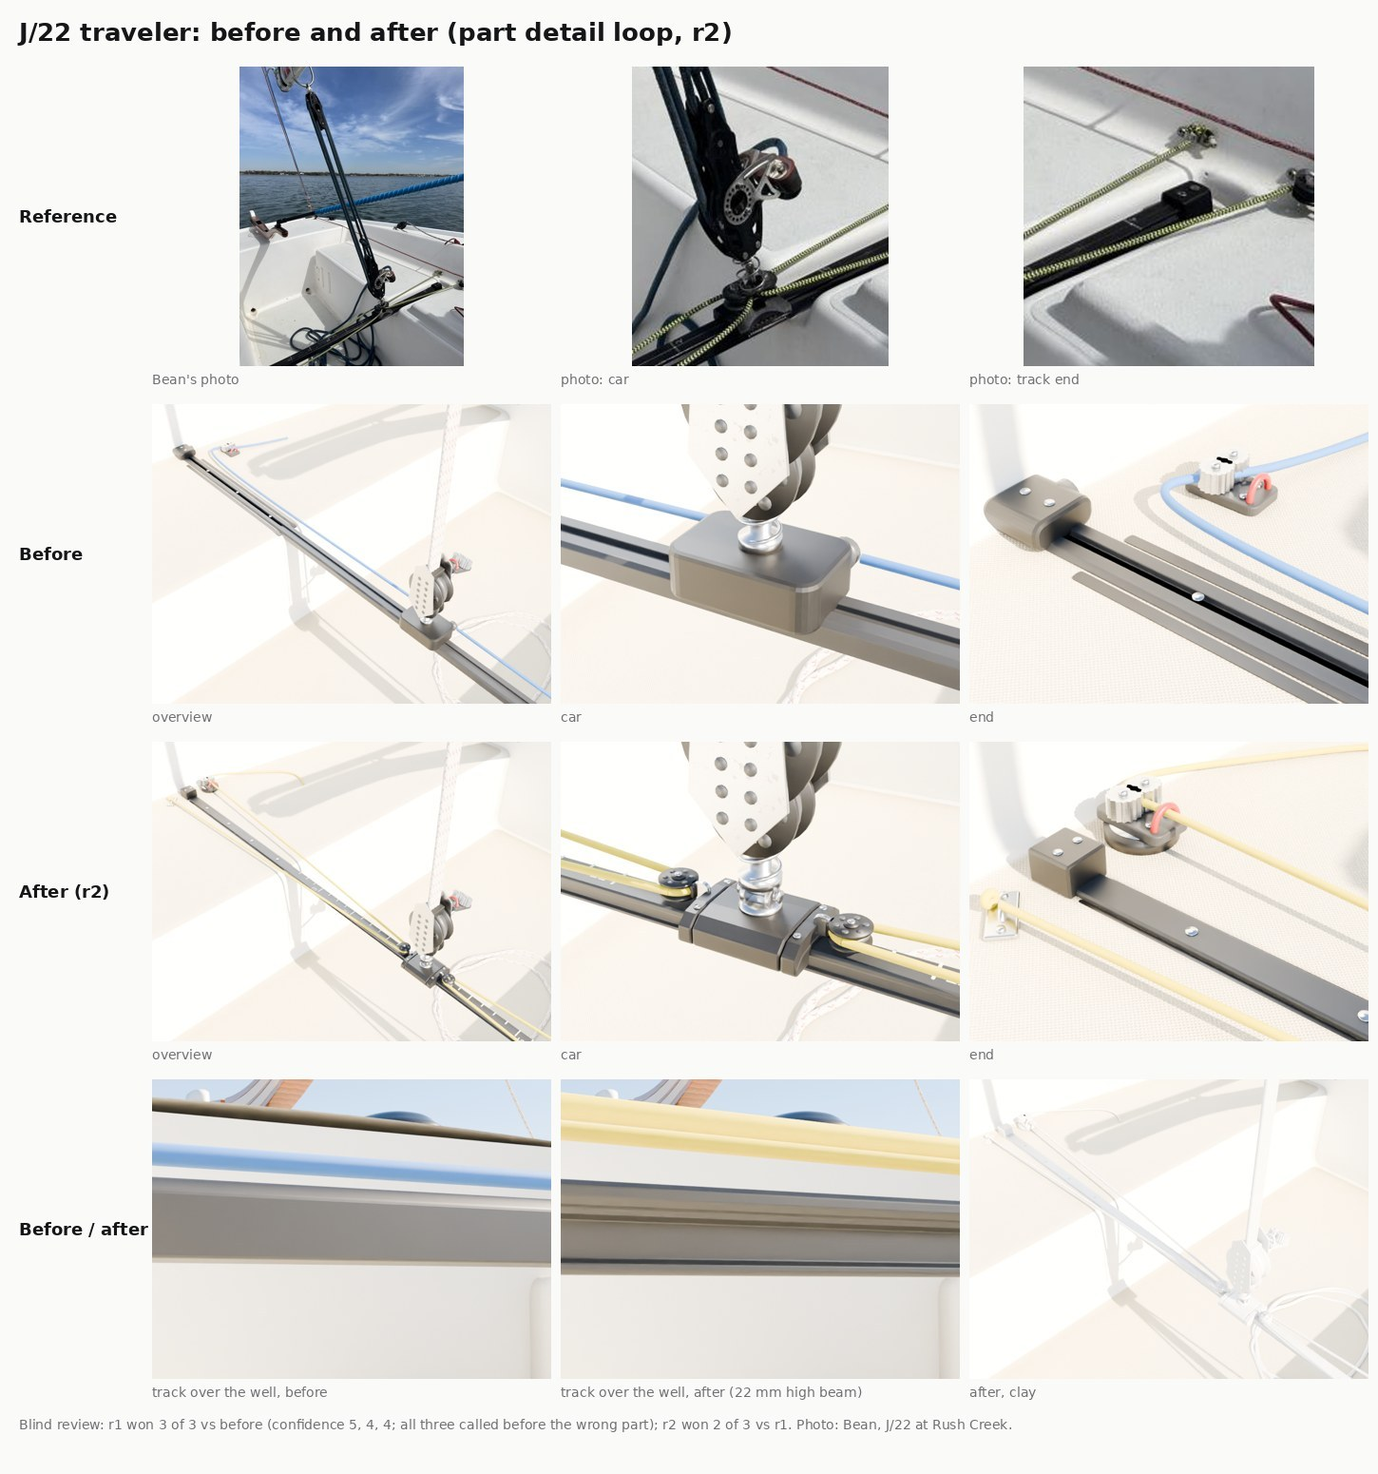
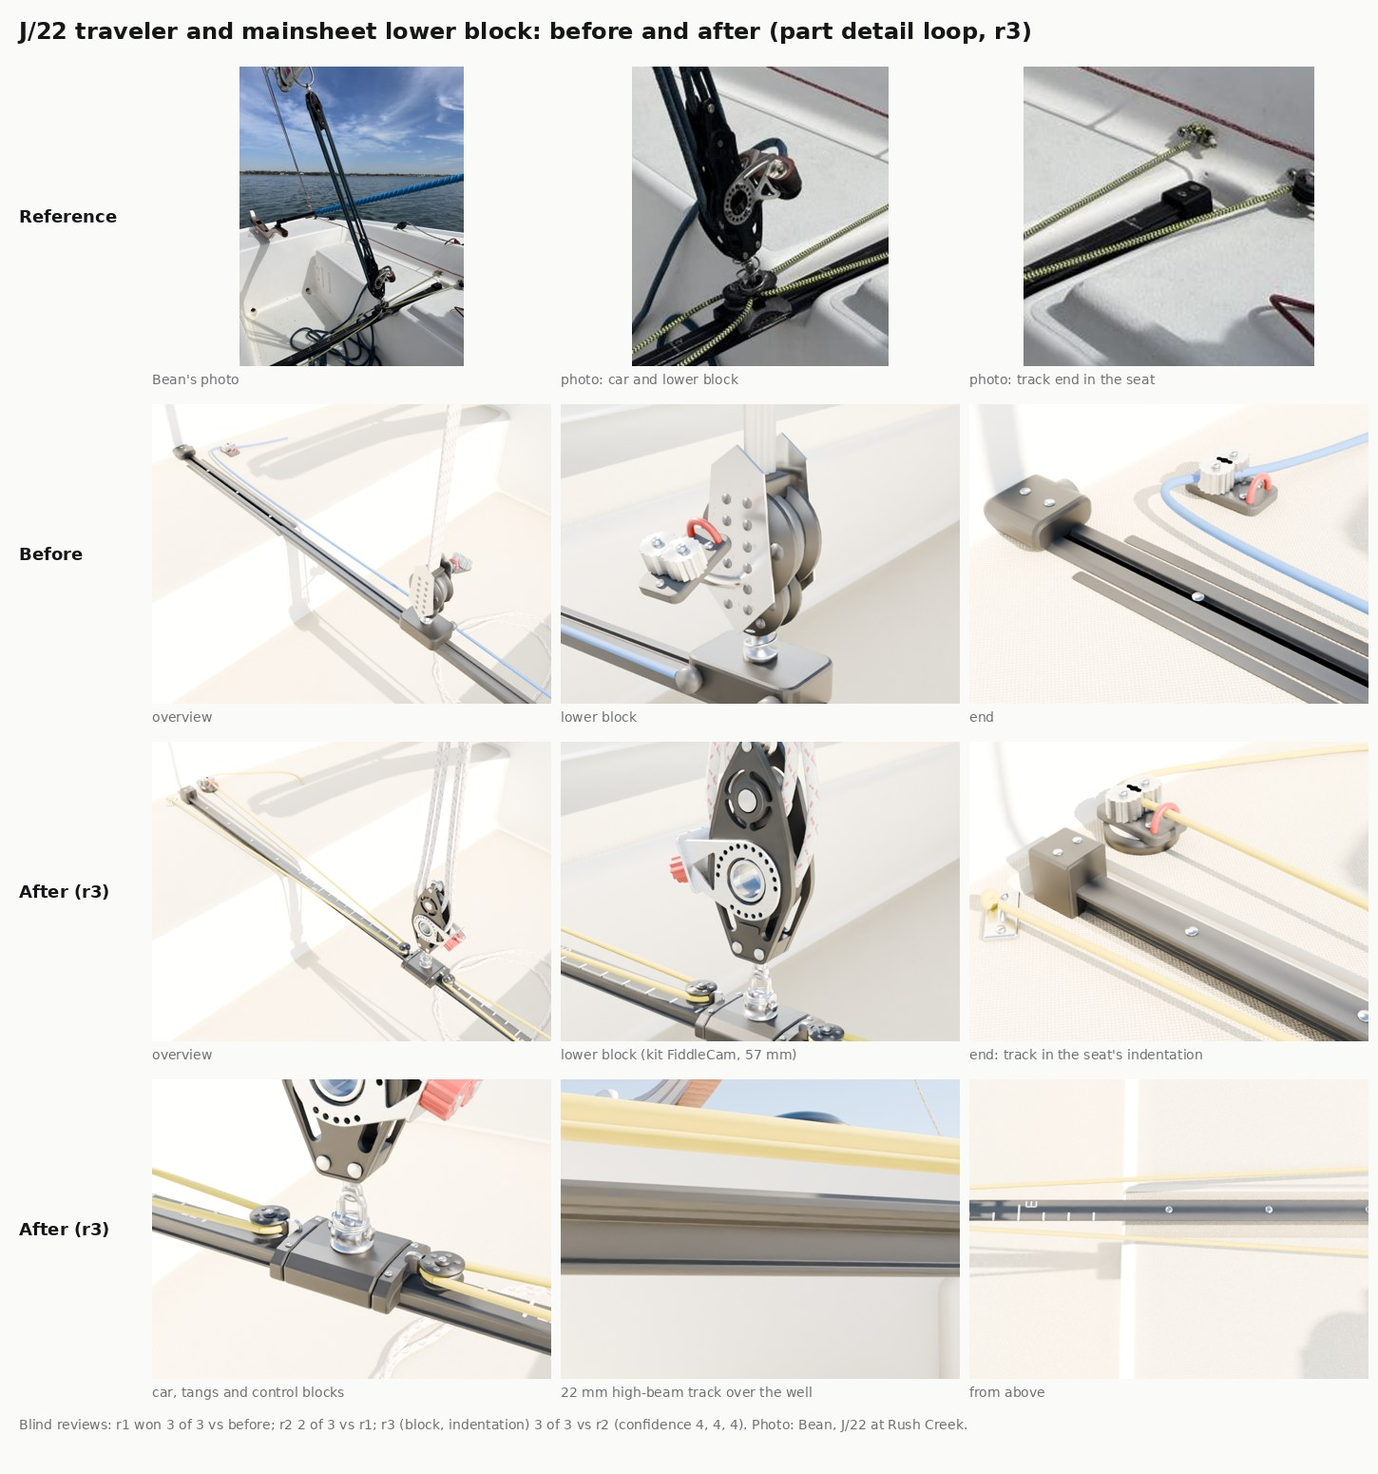
Traveler r3: kit FiddleCam as the lower block, the seats' indentation
Bean's review of #554: the lower block on the car is now the boat kit's
FiddleCam at 57 mm (built from the same photo: black cheeks, red-jawed cam on
its aluminium bracket, becket) on a spring and swivel, its big sheave where
the old block's was; a moulded trough is cut across each seat top for the
track to lie in. The mainsheet's four parts in the stills come down onto the
sheave from either side. MainsheetCam moves to the kit block's jaws (no game
code reads it); every other socket is unchanged.

Blind review: r3 won 3 of 3 against r2 (confidence 4, 4, 4).

Claude-Session: https://claude.ai/code/session_01Aobnj77YeFcs9m9tCADMXJ

diff --git a/Inputs/j22-hero/j22_mainsheet.py b/Inputs/j22-hero/j22_mainsheet.py
@@ -14,7 +14,7 @@ photo; traveler-deck-mount, mainsail-sheet-traveler). Replaces build_j22_hero's 
 build_j22_hero.py; the traveler's sizes from the catalogue (traveler.md), the fiddle's GUESS from the photos (57 mm)."""
 import math
 
-from mathutils import Vector
+from mathutils import Matrix, Vector
 
 import j22_details as D
 from j22_boomgear import countersunk, plate_xy, rounded
@@ -29,6 +29,8 @@ TRACK_W = 0.022          # catalogue: 22 mm track
 TRACK_H = 0.019          # GUESS: high-beam section, its area (about 220 mm2) checked against the catalogue weight (586 g/m)
 CAR_L, CAR_W = 0.073, 0.057   # catalogue (the 22 mm car with pivoting shackle and control tangs): 2 7/8 x 2 1/4 in
 STOP_L, STOP_W = 0.030, 0.032  # GUESS from Bean's photo: a square block a little wider than the track
+TROUGH_W = 0.056         # GUESS from Bean's photo: the seats' moulded indentation the track lies in, its width ...
+TROUGH_END = 0.012       # ... and how far it runs past the track's end (build_j22_hero cuts it into the cockpit liner)
 
 # seven-segment numerals painted on the track (the crew's own marks in Bean's photo): segments as (x0, y0, x1, y1) in a
 # 1 x 2 cell, x across the digit, y up it
@@ -78,14 +80,10 @@ def traveler(xt, y_end, seat_z, seat_in, M):
     bar = plate("TravelerBar", prof, -y_end, y_end, M["CamBase"], bev=0.0004)
     bar["section_mm2"] = round(_poly_area(prof) * 1e6, 1)
     out.append(bar)
-    # the slot in each seat: a dark shadow line either side of the head, and the track's flat-head screws every 100 mm
+    # the track lies in the seats' indentation (cut by build_j22_hero), its foot on the trough's floor; flat-head screws
+    # every 100 mm where it lies on the seats
     for sgn in (1, -1):
         y0, y1 = sorted((sgn * (seat_in + 0.012), sgn * (y_end - STOP_L - 0.004)))
-        for side in (1, -1):
-            x0 = xt + side * (TRACK_W / 2 + 0.0002)
-            x1 = xt + side * (TRACK_W / 2 + 0.0032)
-            out.append(plate_xy(f"TravSlot_{sgn}_{side}", rounded(min(x0, x1), max(x0, x1), y0, y1, 0.0012, 2),
-                                seat_z - 0.0004, seat_z + 0.0003, M["DecalBlack"], bev=0.0))
         n = int((y1 - y0) / 0.1)
         for k in range(n + 1):
             y = sgn * (seat_in + 0.05 + 0.1 * k)
@@ -108,7 +106,7 @@ def traveler(xt, y_end, seat_z, seat_in, M):
     # the end stops: a black block over each end of the track, two screws on top
     for sgn in (1, -1):
         y0, y1 = sorted((sgn * (y_end - STOP_L), sgn * (y_end + 0.002)))
-        out.append(plate("TravStop_" + str(sgn), rounded(xt - STOP_W / 2, xt + STOP_W / 2, seat_z - 0.0005, top + 0.018, 0.0025),
+        out.append(plate("TravStop_" + str(sgn), rounded(xt - STOP_W / 2, xt + STOP_W / 2, top - TRACK_H, top + 0.018, 0.0025),
                          y0, y1, M["BlackPlastic"], bev=0.0015))
         for k, dx in enumerate((-0.008, 0.008)):
             out += countersunk(f"TravStopS_{sgn}_{k}", Vector((xt + dx, sgn * (y_end - STOP_L / 2), top + 0.018)), (0, 0, 1), 0.0060, M["Stainless"])
@@ -200,43 +198,30 @@ def plate_yz_tang(name, xt, yt, z0, sgn, M):
 
 
 
-def lower_block(car, M):
-    """The mainsheet's lower block on the car (photo mainsail-sheet-traveler): a spring over the swivel, the fiddle block
-    standing up from it (57 mm sheave over a 40 mm one, axle fore and aft so the sheet runs athwartships into it), its
-    stainless side plates perforated, a becket, and the cam cleat on its swivelling arm. MainCam's cams keep their names
-    (the MainsheetCam socket reads them)."""
-    out = []
+def lower_block(car, M, kit_part):
+    """The mainsheet's lower block on the car (Bean's photo; part detail loop, docs/part-detail-loop/traveler.md): the
+    boat kit's FiddleCam at its 57 mm size (made from the same photo: black moulded cheeks, the cam cleat with red jaws on
+    an aluminium bracket round the big hub, a becket), standing head down on the car's pivoting shackle, its axles fore
+    and aft so the sheet comes down athwartships into it, a coil spring round the swivel holding it upright. Its big
+    sheave's centre stays where the old block's was (MainsheetBlock); MainsheetCam is its jaws (the kit's Cam socket)."""
     c = Vector(car)
-    # the swivel post and the spring round it
-    out.append(lathe("MainSwivel", [(0.0, 0.0), (0.012, 0.0), (0.012, 0.006), (0.006, 0.008), (0.006, 0.040), (0.0, 0.040)], c, (0, 0, 1), M["Stainless"], 20))
-    out.append(tube("MainSpring", [(c.x + 0.011 * math.cos(t * 0.5), c.y + 0.011 * math.sin(t * 0.5), c.z + 0.006 + t * 0.0009) for t in range(36)],
-                    0.0012, M["Stainless"], smooth_path=True))
-    # the fiddle: the big sheave (the sheet's two parts from the boom) over the small one
-    big = c + Vector((0, 0, 0.040 + 0.045))
-    out += D.block("MainsheetLow", big, (1, 0, 0), (0, 0, 1), M, 0.057, becket=False, with_shackle=False)
-    small = c + Vector((0, 0, 0.040 + 0.006))
-    out += D.block("MainsheetLow2", small, (1, 0, 0), (0, 0, 1), M, 0.040, with_shackle=False)
-    # the stainless side plates over the cheeks, a long diamond, perforated (shown by grey dots)
-    for sgn in (1, -1):
-        xs = c.x + sgn * 0.022
-        prof = [(0.0, 0.0), (0.028, 0.030), (0.020, 0.110), (0.0, 0.125), (-0.020, 0.110), (-0.028, 0.030)]
-        out.append(plate(f"MainPlate_{sgn}", [(c.y + p, c.z + 0.025 + q) for p, q in prof], min(xs, xs + sgn * 0.002), max(xs, xs + sgn * 0.002),
-                         M["Stainless"], bev=0.0005))
-        # (plate() extrudes an (x, z) outline across y: turn it to lie across x)
-        o = out[-1]
-        for v in o.data.vertices:
-            v.co.x, v.co.y = v.co.y, v.co.x
-        for k in range(6):
-            zk = c.z + 0.045 + 0.014 * k
-            out.append(cyl(f"MainPlateHole_{sgn}_{k}", (xs + sgn * 0.0021, c.y - 0.008, zk), (xs + sgn * 0.0024, c.y - 0.008, zk), 0.0035, M["SheaveGrey"], 10))
-            out.append(cyl(f"MainPlateHoleB_{sgn}_{k}", (xs + sgn * 0.0021, c.y + 0.008, zk), (xs + sgn * 0.0024, c.y + 0.008, zk), 0.0035, M["SheaveGrey"], 10))
-    # the becket at the top (the sheet's dead end)
-    bk = D.torus("MainBecket", 0.007, 0.0018, M["Stainless"], 16, 6)
-    bk.matrix_world = D.frame(c + Vector((0, 0, 0.160)), (1, 0, 0), (0, 1, 0))
-    out.append(bk)
-    # the cam cleat on its arm, swung aft of the block, the line's lead toward the block's small sheave
-    arm0 = c + Vector((-0.012, 0, 0.060))
-    arm1 = c + Vector((-0.070, 0, 0.085))
-    out.append(tube("MainCamArm", [tuple(arm0), tuple(arm0 + Vector((-0.03, 0, 0.004))), tuple(arm1)], 0.004, M["Stainless"], smooth_path=True))
-    out += D.cam_cleat("MainCam", arm1, (-0.35, 0, 1), (0.9, 0, 0.4), M, 0.055)
+    ob = kit_part("MainsheetLow", "FiddleCam", (0, 0, 0), size="57")[0]
+    axle = Vector(ob["sock_Axle"])
+    # part X (the cam's side) to port, part Y (the axles) forward, part Z (up the block toward its head) down
+    rot = Matrix(((0, 1, 0), (1, 0, 0), (0, 0, -1))).to_4x4()
+    target = c + Vector((0, 0, 0.085))                    # the old block's big sheave (build_j22_hero's mainsheet ends here)
+    rot.translation = target - rot.to_3x3() @ axle
+    ob.matrix_world = rot
+    out = [ob]
+    head = rot.translation
+    # from the car's shackle pin up to the block's own swivel: a stainless post and a coil spring round it
+    base = c - Vector((0, 0, 0.006))
+    if head.z > base.z + 0.004:
+        out.append(lathe("MainSwivel", [(0.0, 0.0), (0.0045, 0.0), (0.0045, head.z - base.z + 0.002), (0.0, head.z - base.z + 0.002)],
+                         base, (0, 0, 1), M["Stainless"], 16))
+        h = head.z - base.z
+        turns = max(3, int(h / 0.0045))
+        n = turns * 10
+        out.append(tube("MainSpring", [(c.x + 0.0095 * math.cos(2 * math.pi * t / 10), c.y + 0.0095 * math.sin(2 * math.pi * t / 10),
+                                        base.z + 0.002 + h * 0.9 * t / n) for t in range(n + 1)], 0.0011, M["Stainless"], res=6, smooth_path=True))
     return out

diff --git a/Inputs/j22-hero/build_j22_hero.py b/Inputs/j22-hero/build_j22_hero.py
@@ -651,7 +651,7 @@ def build_hardware():
     xt = TRAVELER_X
     trav, car = MS.traveler(xt, half_beam(xt) - SIDE_DECK - 0.035, SEAT_Z, SEAT_IN, MAT)
     parts += trav
-    parts += MS.lower_block(car, MAT)
+    parts += MS.lower_block(car, MAT, kit_part)
     # aft deck: inspection port
     xp = (STERN + COCKPIT_AFT) / 2 - 0.02
     parts.append(cyl("DeckPlate", (xp, 0.30, deck_z(xp, 0.3) - 0.002), (xp, 0.30, deck_z(xp, 0.3) + 0.012), 0.075, MAT["WhitePlastic"], 32))
@@ -802,8 +802,10 @@ def build_rig():
     blk_hi = top - Vector((0, 0, 0.07))
     parts += D.block("MainsheetHigh", blk_hi, (1, 0, 0), (0, 0, 1), MAT, 0.057)
     low = Vector((TRAVELER_X, 0.0, SEAT_Z + 0.115))      # the fiddle's big sheave on the traveler car (j22_mainsheet.py)
-    for k, dx in enumerate((-0.010, -0.0035, 0.0035, 0.010)):
-        part = DRAPE.line([tuple(blk_hi + Vector((dx, 0, -0.02))), tuple(low + Vector((dx, 0, 0.03)))], 0.0015, 0.004)
+    # both blocks' axles run fore and aft, so the four parts of the sheet are spread athwartships: the outer two onto the
+    # sides of the lower fiddle's big sheave, the inner two onto its top (traveler pass: they had been spread fore and aft)
+    for k, (dy, dz) in enumerate(((-0.026, 0.0), (-0.008, 0.026), (0.008, 0.026), (0.026, 0.0))):
+        part = DRAPE.line([tuple(blk_hi + Vector((0, dy * 0.6, -0.02))), tuple(low + Vector((0, dy, dz)))], 0.0015, 0.004)
         wires.append(tube(f"Mainsheet_{k}", part, 0.004, MAT["RopeMain"], smooth_path=True))
     # mainsheet tail from the ratchet block's cam, coiled on the cockpit floor
     parts += D.coil("MainTail", (-2.30, 0.05, FLOOR_Z), 0.13, 3.2, MAT["RopeMain"], seed=STYLE["seed"], flat_z=FLOOR_Z,
@@ -1018,6 +1020,14 @@ def build_registration():
 hull = build_hull()
 deck = build_deck()
 cockpit = build_cockpit()
+# the traveler's indentation (Bean, Nov 9 2026: "the track is in an indention in the cockpit seats"): a moulded trough
+# across each seat top, open to the well, its floor where the track's foot sits (j22_mainsheet.TRACK_H under its top)
+import j22_mainsheet as _MS  # noqa: E402
+import bk_geom as _BG  # noqa: E402
+for _side in (1, -1):
+    _y0, _y1 = sorted((_side * (SEAT_IN - 0.05), _side * (half_beam(TRAVELER_X) - SIDE_DECK - 0.035 + _MS.TROUGH_END)))
+    _BG.boolean(cockpit, box("TravTroughCut", TRAVELER_X - _MS.TROUGH_W / 2, TRAVELER_X + _MS.TROUGH_W / 2, _y0, _y1,
+                             SEAT_Z + 0.004 - _MS.TRACK_H, SEAT_Z + 0.05, bev=0.006))
 cabin = build_cabin()
 import types  # noqa: E402
 import j22_interior as INTERIOR  # noqa: E402

diff --git a/Tools/boatkit/partloop/render_traveler.py b/Tools/boatkit/partloop/render_traveler.py
@@ -7,7 +7,7 @@ after compare like for like:
 
 Views: photo (from the port quarter, aft and above, looking forward to starboard across the cockpit: the angle of
 Bean's photo), car (the car and the foot of the lower block, close), end (the starboard end of the track: end stop,
-eye strap, cam cleat), section (the track where it spans the well, from forward and a little below: its depth), top (the starboard half from
+eye strap, cam cleat), block (the mainsheet's lower block on the car, from aft), section (the track where it spans the well, from forward and a little below: its depth), top (the starboard half from
 above), clay (photo, shape only). Writes stats.json: triangles and object count per group."""
 import json
 import os
@@ -23,7 +23,7 @@ from mathutils import Vector  # noqa: E402
 import bk_render as R  # noqa: E402
 from render_boomgear import args, centre, lights  # noqa: E402
 
-GROUPS = ("TravelerBar", "TravSlot", "TravChannel", "TravS_", "TravMark", "TravNum", "TravStop", "TravEnd", "TravCar",
+GROUPS = ("MainsheetLow", "MainSwivel", "MainSpring", "MainCam", "MainPlate", "MainBecket", "TravelerBar", "TravSlot", "TravChannel", "TravS_", "TravMark", "TravNum", "TravStop", "TravEnd", "TravCar",
           "TravTang", "TravBlock", "TravEye", "TravCam", "TravLine", "TravTail")
 
 
@@ -69,6 +69,7 @@ def main():
         "end":     (stb + Vector((-0.01, 0.02, 0.01)), (0.9, 0.7, 0.85), 0.30, 70),
         "section": (Vector((tb.x, -0.30, top - 0.008)), (1.0, -0.45, -0.08), 0.13, 70),
         "top":     (Vector((tb.x - 0.02, -0.45, top)), (-0.25, 0.0, 1.0), 0.55, 50),
+        "block":   (Vector((tb.x, 0.0, top + 0.10)), (-1.0, -0.75, 0.45), 0.36, 70),
     }
     only = [a[len("--views="):].split(",") for a in sys.argv if a.startswith("--views=")]
     for view, (c, d, dist, lens) in views.items():

diff --git a/Inputs/j22-hero/bake_j22_hero.py b/Inputs/j22-hero/bake_j22_hero.py
@@ -114,7 +114,7 @@ sock("Traveler_C", Vector(((tlo.x + thi.x) / 2, 0, thi.z + 0.02)))
 sock("Traveler_S", Vector(((tlo.x + thi.x) / 2, tlo.y + 0.05, thi.z + 0.02)))
 sock("Traveler_P", Vector(((tlo.x + thi.x) / 2, thi.y - 0.05, thi.z + 0.02)))
 # Bean's feedback 1: the mainsheet's lower block stands on the car (j22_mainsheet.py); the tackle ends at its sheave
-sock("MainsheetBlock", _c("MainsheetLow_sheave"))
+sock("MainsheetBlock", _kit_sock("MainsheetLow", "Axle") if "MainsheetLow" in bpy.data.objects else _c("MainsheetLow_sheave"))
 # the lazy sheet's pass over the cabin top: a little above the cabin, a hand's width aft of the mast
 clo, chi = _bb("Cabin")
 sock("LazySheetVia", Vector((mast_x - 0.35, 0, chi.z + 0.06)))
@@ -152,7 +152,8 @@ else:
     ux_lo, ux_hi = _bb("TillerExt")
     sock("TillerExtTip", Vector((ux_lo.x, 0, (ux_lo.z + ux_hi.z) / 2)) if ux_lo.x < tl_lo.x + 0.4 else Vector((ux_hi.x, 0, ux_hi.z)))
     sock("TillerExtUJ", _c("ExtUJ"))
-sock("MainsheetCam", (_c("MainCam_cam-1") + _c("MainCam_cam1")) / 2)
+# the kit's FiddleCam on the traveler car (part detail loop, docs/part-detail-loop/traveler.md): its jaws
+sock("MainsheetCam", _kit_sock("MainsheetLow", "Cam") if "MainsheetLow" in bpy.data.objects else (_c("MainCam_cam-1") + _c("MainCam_cam1")) / 2)
 for tag, side in (("S", -1), ("P", 1)):
     sock(f"HandholdCabin_{tag}", _top(f"Handrail_{side}"))
     sock(f"HandholdCoaming_{tag}", _top(f"CoamingCap_{side}"))

diff --git a/docs/part-detail-loop/traveler.md b/docs/part-detail-loop/traveler.md
@@ -1,8 +1,10 @@
-# J/22 traveler: track, car, end stops and control lines (Nov 8 2026)
+# J/22 traveler: track, car, end stops, control lines and the mainsheet's lower block (Nov 8-9 2026)
 
 The part detail loop ([README](README.md)) run on the hero J/22's mainsheet traveler, item 3 of the Nov 8 list of
-next passes. Everything is in `traveler()` in `Inputs/j22-hero/j22_mainsheet.py`, plus one flat material
-(`TravLine`) in `j22_materials.py`. The mainsheet's lower block on the car (`lower_block`) is unchanged.
+next passes. The traveler is `traveler()` and the lower block `lower_block()` in `Inputs/j22-hero/j22_mainsheet.py`; the
+seats' indentation is cut in `build_j22_hero.py`; one flat material (`TravLine`) is new in `j22_materials.py`. Round 3
+followed Bean's review of the PR (Nov 9: "make the block look more like the photos ... the track is in an indention in
+the cockpit seats").
 
 ![Traveler before and after](traveler_before_after.jpg)
 
@@ -10,8 +12,17 @@ next passes. Everything is in `traveler()` in `Inputs/j22-hero/j22_mainsheet.py`
 
 - **Track.** A 22 mm high-beam track (the Harken J/22 layout's track, the kind made to span a cockpit) instead of a
   32 mm flat T-bar. The section has a 22 mm head with ball races under its edges, a stem and a foot, 19 mm deep, so it
-  reads as an extrusion where it bridges the well. It is still let into each seat with its head 4 mm proud, and the
-  old flat strips either side are now a thin shadow line. Flat-head screws every 100 mm where it lies on the seats.
+  reads as an extrusion where it bridges the well. Flat-head screws every 100 mm where it lies on the seats.
+- **The seats' indentation (r3).** A moulded trough 56 mm wide is cut across each seat top (a boolean on the cockpit
+  liner, rounded edges, open to the well, running 12 mm past the track's end). Its floor is where the track's foot sits,
+  so the track lies in it with its head 4 mm proud of the seat, as on the club boat. Before, the track was buried in the
+  seat between two flat dark strips.
+- **Lower block (r3).** The boat kit's `FiddleCam` at its 57 mm size, the block the vang run built from the same photo
+  of this boat: black moulded cheeks, the cam cleat with red jaws on its perforated aluminium bracket round the big hub,
+  a becket. It stands head down on the car's pivoting shackle, axles fore and aft, with a stainless coil spring round
+  the swivel. Before, it was two sheaves between flat drilled stainless plates with a cam on a separate arm, which every
+  reviewer called the wrong part. The mainsheet's four parts in the stills now come down onto the block's sheave from
+  either side (they had been spread fore and aft).
 - **Index marks.** The crew's white marks over the well, as on the club boat in Bean's photo: a tick every 25 mm, a
   long tick and a numeral (1 to 3) every 100 mm out from the middle, both sides.
 - **End stops.** A taller, square black block over each end of the track with two screws on top, instead of a
@@ -26,15 +37,17 @@ next passes. Everything is in `traveler()` in `Inputs/j22-hero/j22_mainsheet.py`
 
 ## What stays the same in the game
 
-- Every socket in `J22H_sockets.json` is identical (checked with `J22H_SOCKETS_ONLY=1` against the committed file):
-  `Traveler_C/S/P` come from the track's top and ends, which did not move, and the car's top centre is where it was, so
-  `MainsheetBlock` and `MainsheetCam` stay too.
+- Every socket in `J22H_sockets.json` but one is identical (checked with `J22H_SOCKETS_ONLY=1`): `Traveler_C/S/P`
+  come from the track's top and ends, which did not move, and the new block's big sheave is placed where the old one's
+  was, so `MainsheetBlock` stays. `MainsheetCam` (a crew hand point; no game code reads it) is now the kit block's
+  jaws: (-214.16, 0, 52.63) to (-206, -5.33, 51.33). The committed file has the new value.
 - The traveler is part of `SM_J22H_Hull`, so the car, blocks and lines are drawn at the centre of the track. The game
   still slides its own small car (`TravelerCar` in `BoatModelVisuals.cpp`) with the trim. Making the hero's car and
   control lines move with it would be a small Mac code step (a separate moving part), not in this pass.
 - `TravLine` is a new flat material: the bake writes it into `materials.json` and `scripts/import_j22_hero.py` makes
   `MI_J22H_TravLine` from it like the other flat ones. The flecks in the photo are not in it (a flat colour).
-- Triangles: the hull goes from 606,016 to 619,916 (the traveler from 11,184 to 25,084), inside the 1.2M cap.
+- Triangles: the hero goes from 606,016 to 638,272 (the traveler and lower block from 15,952 to 59,508; the block is
+  the kit's 28,748), inside the 1.2M cap.
 
 | Group | Before | After |
 |---|---|---|
@@ -46,6 +59,7 @@ next passes. Everything is in `traveler()` in `Inputs/j22-hero/j22_mainsheet.py`
 | Eye straps | 0 | 1,032 |
 | Cam cleats and swivel bases | 6,376 | 6,808 |
 | Control lines and tails | 1,904 | 4,864 |
+| Lower block, swivel and spring | 4,768 | 34,600 |
 
 ## Sizes
 
@@ -70,8 +84,9 @@ starboard end, the track over the well).
 |---|---|---|
 | r1 | before | **won 3 of 3** (confidence 5, 4, 4). All three called before the wrong part: "a plain rounded slider box on a slotted rail flanked by loose flat strips", "a generic sliding-door rail" |
 | r2: marks every 25 mm with bigger numerals, taller square stops, black lower car, smaller blocks, a knot at the dead end, slimmer section | r1 | **won 2 of 3** (confidence 2, 3; the loss at 2). Winners cited the marks and the stops; the one loss preferred r1's lower, rounder stop and sparser marks |
+| r3 (Bean's review): the kit FiddleCam as the lower block, the seats' indentation, the sheet's parts onto the sheave; a fifth view of the block | r2 | **won 3 of 3** (confidence 4, 4, 4). All three called r2's lower block the wrong part ("a flat perforated stainless plate on bare sheaves") and saw r3's track "sunk in a recess in the seat" |
 
-Still different from the real traveler (the reviewers' shared notes on r2, for a later pass):
+Still different from the real traveler (the reviewers' shared notes on r2 and r3, for a later pass):
 
 - The control line is flat yellow; the real one is a yellow braid with black flecks. A rope material on the hull would
   need the import to handle it.
@@ -81,6 +96,9 @@ Still different from the real traveler (the reviewers' shared notes on r2, for a
   cam cleat on a round base and a flat eye strap close to the stop. A photo of the lesson boat's seat ends would settle
   which cam and block it uses.
 - The marks are too regular; the real ones are hand-painted and worn.
+- The seat's cam cleat has pale aluminium jaws on a big base; the real one is a compact dark cleat with red jaws. The
+  swivel between the car and the block is bulky; the real one is slimmer.
+- The indentation's edges are soft; the real moulding has a crisper edge.
 - Black parts render mid-grey in the cloud preview (the same for every round).
 
 ## References
